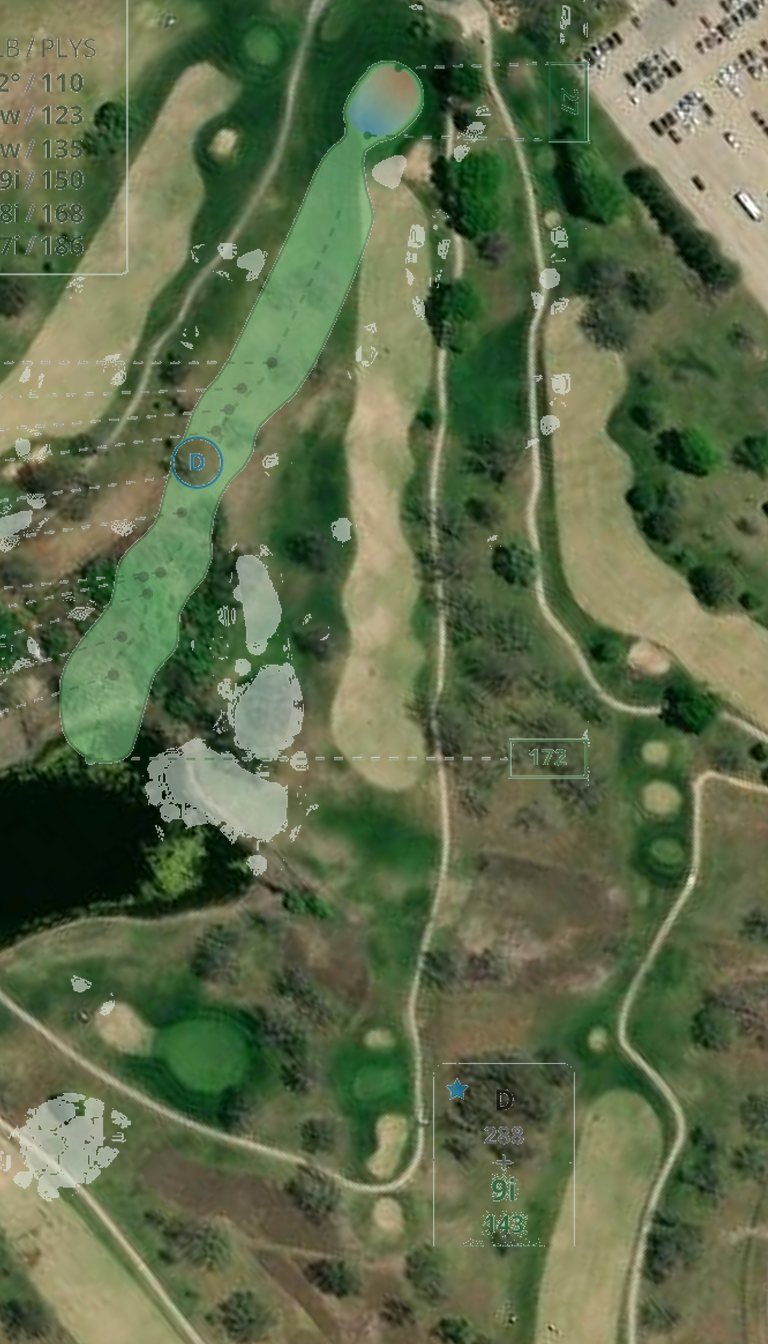
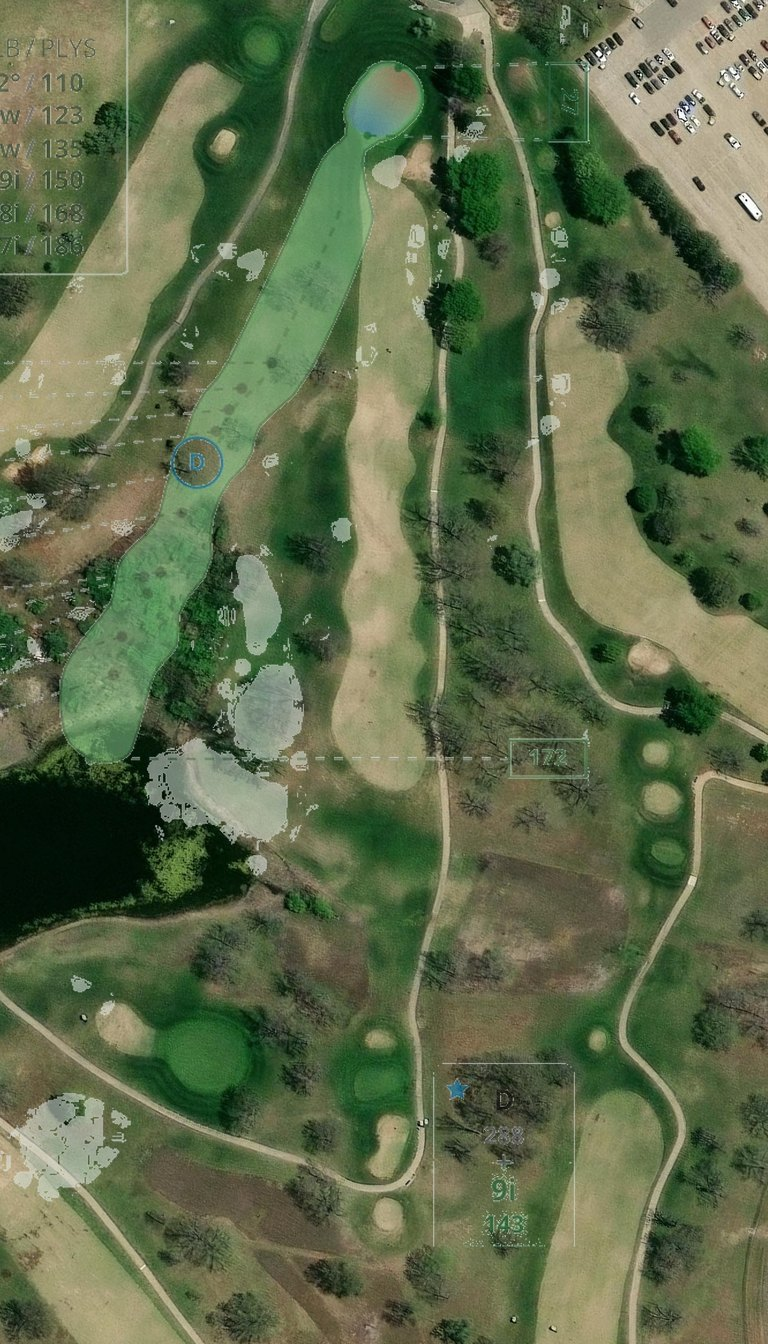
lake shawnee: per-hole zoom-19 imagery; no black edges; link b8

diff --git a/course/lake-shawnee/index.html b/course/lake-shawnee/index.html
@@ -1188,7 +1188,10 @@ function bookBlock(){
   const n = String(hole).padStart(2,"0");
   /* Hole page: the PTC book over the GPS satellite, rendered as a clean portrait
      page - play-direction up, imagery filling the frame, the book's chrome masked,
-     both layers sharing one orientation so nothing sits sideways. Tee and green are
+     both layers sharing one orientation so nothing sits sideways. The imagery is
+     fetched per hole at zoom 19 - the provider's native ceiling, 0.23 m/px - framed
+     to that hole's own page corners, rather than sampled from one zoom-17 mosaic of
+     the whole course, which is what made the first version look soft. Tee and green are
      pinned per hole to BlueGolf's surveyed coordinates. All 18 re-reviewed on this
      renderer, including 15, whose earlier failure was the midpoint solve and not
      the anchors. */

diff --git a/index.html b/index.html
@@ -410,7 +410,7 @@ body{background:var(--green-deep);font-family:var(--font-body);color:var(--cream
   var COURSES=[
     {name:'Any Course',sub:'Anywhere &middot; Basic or Advanced',slug:'round-tracker'},
     {name:'Charleston National Golf Club',loc:'Mount Pleasant, SC',par:72,slug:'charleston-national'},
-    {name:'Lake Shawnee Golf Course',loc:'Topeka, KS',par:70,slug:'lake-shawnee',v:'b7'}
+    {name:'Lake Shawnee Golf Course',loc:'Topeka, KS',par:70,slug:'lake-shawnee',v:'b8'}
   ];
 
   /* DISPLAY ORDER IS FIXED: the four shot categories, then Ball Strike as their
